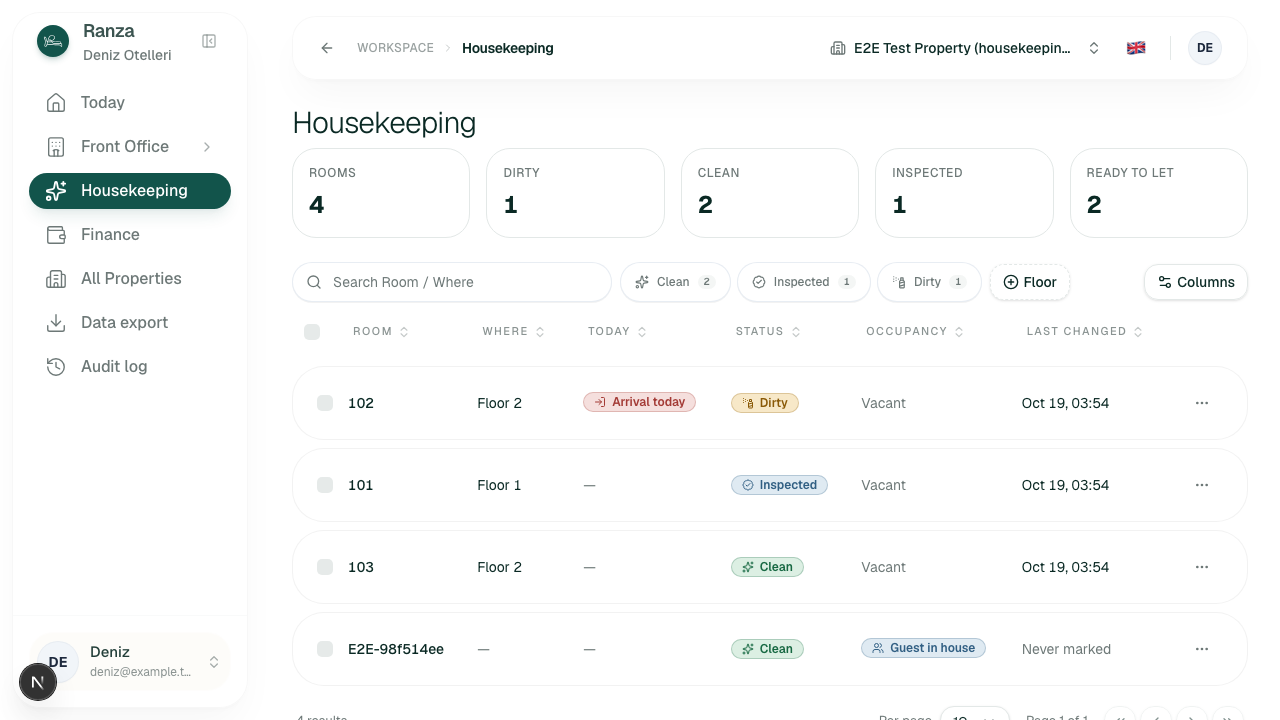
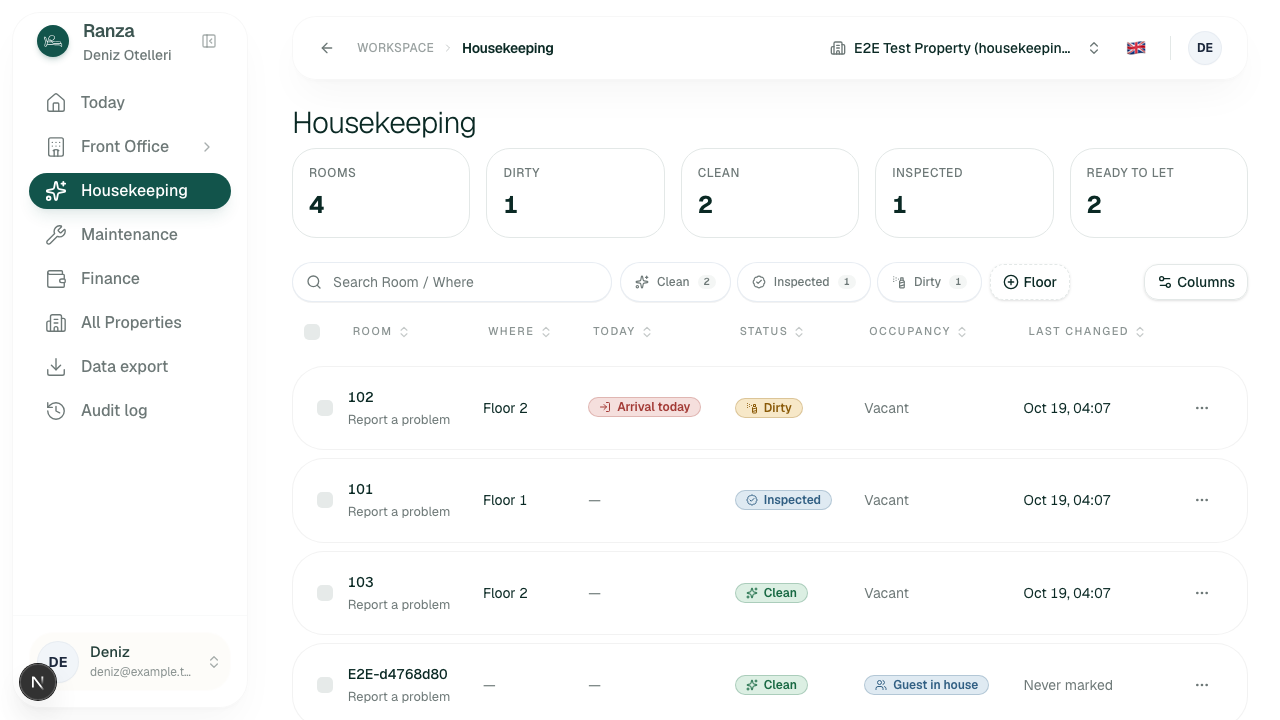
fix(housekeeping): a room's row says its status under its number on a phone and offers Report a problem with the room already chosen

diff --git a/apps/operator-workspace/src/features/housekeeping/components/columns.tsx b/apps/operator-workspace/src/features/housekeeping/components/columns.tsx
@@ -1,5 +1,6 @@
 "use client";
 
+import Link from "next/link";
 import { useTranslations } from "next-intl";
 import type { ColumnDef } from "@tanstack/react-table";
 import {
@@ -89,12 +90,26 @@ function changedAt(iso: string, locale: SupportedLocale, timeZone: string) {
   });
 }
 
+function DayBadge({ day }: { day: RoomDay | undefined }) {
+  const t = useTranslations("housekeeping");
+  if (!day) return null;
+  const look = DAY_LOOK[day];
+  return (
+    <StatusBadge
+      icon={look.icon}
+      label={t(look.label as "priorityArrival")}
+      tone={look.tone}
+    />
+  );
+}
+
 export function useHousekeepingColumns({
   locale,
   timeZone,
   days,
   mayMark,
   pending,
+  reportHref,
   onMark,
 }: {
   locale: SupportedLocale;
@@ -103,6 +118,8 @@ export function useHousekeepingColumns({
   days: Readonly<Record<string, RoomDay>>;
   mayMark: boolean;
   pending: boolean;
+  /** Where to report a problem in a room, up to its id; null if not allowed. */
+  reportHref: string | null;
   onMark: (unitIds: string[], status: HousekeepingStatus) => void;
 }): ColumnDef<HousekeepingRoom>[] {
   const t = useTranslations("housekeeping");
@@ -127,6 +144,21 @@ export function useHousekeepingColumns({
               {t("beds", { count: row.original.bedCount })}
             </span>
           ) : null}
+          {reportHref ? (
+            <Link
+              className="mt-1 block text-step--1 text-muted-foreground underline-offset-4 hover:text-foreground hover:underline"
+              href={`${reportHref}${row.original.unitId}`}
+              prefetch={false}
+            >
+              {t("reportProblem")}
+            </Link>
+          ) : null}
+          {/* On a phone the status column is a swipe away, and the status is
+              what this screen is for: it is said under the room as well. */}
+          <div className="mt-1.5 flex flex-wrap items-center gap-1.5 md:hidden">
+            <HousekeepingStatusBadge status={row.original.status} />
+            <DayBadge day={days[row.original.unitId]} />
+          </div>
         </div>
       ),
     },
@@ -177,18 +209,12 @@ export function useHousekeepingColumns({
           title={t("todayColumn")}
         />
       ),
-      cell: ({ row }) => {
-        const day = days[row.original.unitId];
-        if (!day) return <span className="text-muted-foreground">—</span>;
-        const look = DAY_LOOK[day];
-        return (
-          <StatusBadge
-            icon={look.icon}
-            label={t(look.label as "priorityArrival")}
-            tone={look.tone}
-          />
-        );
-      },
+      cell: ({ row }) =>
+        days[row.original.unitId] ? (
+          <DayBadge day={days[row.original.unitId]} />
+        ) : (
+          <span className="text-muted-foreground">—</span>
+        ),
     },
     {
       accessorKey: "status",

diff --git a/tests/unit/housekeeping-board.test.tsx b/tests/unit/housekeeping-board.test.tsx
@@ -63,6 +63,7 @@ function screenOf(
   board: Board,
   locale: SupportedLocale,
   days: Record<string, RoomDay> = {},
+  reportHref: string | null = null,
 ) {
   return (
     <NextIntlClientProvider locale={locale} messages={messages[locale]}>
@@ -74,6 +75,7 @@ function screenOf(
         markLimit={60}
         narrowed={null}
         propertyName="Deniz Otel"
+        reportHref={reportHref}
         timeZone="Europe/Istanbul"
       />
     </NextIntlClientProvider>
@@ -86,9 +88,10 @@ function show(
   board: Board,
   locale: SupportedLocale = "en",
   days: Record<string, RoomDay> = {},
+  reportHref: string | null = null,
 ) {
   cleanup();
-  rerenderScreen = render(screenOf(board, locale, days)).rerender;
+  rerenderScreen = render(screenOf(board, locale, days, reportHref)).rerender;
 }
 
 /** The same mounted board, handed new props — what a revalidation does. */
@@ -388,5 +391,20 @@ describe("the housekeeping board", () => {
       "Never marked",
     );
     expect(screen.getByRole("row", { name: /102/ })).toHaveTextContent("2019");
+  });
+
+  it("offers a report-a-problem link on the room's row to somebody who may report (MAINT-10)", () => {
+    show(boardOf([room({})], false), "en", {}, "/en/maintenance?report=");
+    expect(
+      screen.getByRole("link", { name: "Report a problem" }),
+    ).toHaveAttribute(
+      "href",
+      "/en/maintenance?report=dd000004-0000-4000-8000-000000000001",
+    );
+
+    show(boardOf([room({})], true));
+    expect(
+      screen.queryByRole("link", { name: "Report a problem" }),
+    ).not.toBeInTheDocument();
   });
 });

diff --git a/tests/browser/housekeeping-ux.spec.ts b/tests/browser/housekeeping-ux.spec.ts
@@ -87,6 +87,12 @@ test("a phone says a mark landed where it can be seen, and the stale-link page p
   await expect(first).toBeVisible();
   expect((await first.boundingBox())!.y).toBeLessThan(812);
 
+  // HK-01: the status is read without swiping the table sideways.
+  const status = first.getByText("Dirty").first();
+  await expect(status).toBeVisible();
+  const statusBox = (await status.boundingBox())!;
+  expect(statusBox.x + statusBox.width).toBeLessThanOrEqual(375);
+
   // HK-08: tick, mark, and the confirmation is in the window.
   await page.getByRole("checkbox", { name: "Select row" }).first().click();
   const markClean = page.getByRole("button", { name: "Mark clean" });
@@ -101,6 +107,14 @@ test("a phone says a mark landed where it can be seen, and the stale-link page p
   await page.screenshot({
     path: path.join(EVIDENCE, "confirmation-in-the-window-on-a-phone.png"),
   });
+
+  // MAINT-10: a problem is reported from the row, with the room already chosen.
+  await page
+    .getByRole("row", { name: /101/ })
+    .getByRole("link", { name: "Report a problem" })
+    .click();
+  await expect(page).toHaveURL(/\/en\/maintenance\?property=.*&report=/);
+  await expect(page.getByRole("dialog")).toContainText("101");
 
   // HK-12: a link naming a Property the viewer does not reach says what to do.
   await page.goto(

diff --git a/apps/operator-workspace/src/app/[locale]/(workspace)/housekeeping/page.tsx b/apps/operator-workspace/src/app/[locale]/(workspace)/housekeeping/page.tsx
@@ -13,6 +13,7 @@ import {
   housekeepingInspection,
   MARK_BATCH,
   requireViewer,
+  roomsMaintenance,
 } from "../../../../server/viewer";
 import { frontDeskProperty } from "../../../../server/front-desk";
 import { boardByUrgency } from "../../../../server/housekeeping-day";
@@ -73,14 +74,14 @@ export default async function HousekeepingPage({
     );
   }
 
-  const [fullBoard, inspection, arrivalRows, departureRows] = await Promise.all(
-    [
+  const [fullBoard, inspection, arrivalRows, departureRows, maintenance] =
+    await Promise.all([
       housekeepingBoard(property.propertyId),
       housekeepingInspection(property.propertyId),
       arrivals(property.propertyId),
       departures(property.propertyId, "due"),
-    ],
-  );
+      roomsMaintenance(property.propertyId),
+    ]);
   const { rooms: roomsByUrgency, days } = boardByUrgency(
     fullBoard,
     arrivalRows,
@@ -132,6 +133,11 @@ export default async function HousekeepingPage({
         narrowed={narrowed}
         locale={locale}
         markLimit={MARK_BATCH.max}
+        reportHref={
+          maintenance.mayReport
+            ? `${localizeHref(locale, "maintenance")}?property=${property.propertyId}&report=`
+            : null
+        }
         propertyName={property.propertyName}
         timeZone={property.timezone}
       />

diff --git a/apps/operator-workspace/src/messages.ts b/apps/operator-workspace/src/messages.ts
@@ -1804,6 +1804,7 @@ export interface Messages {
     floorFilter: string;
     noFloor: string;
     neverMarked: string;
+    reportProblem: string;
   };
 
   /** The Maintenance screen (RANZ-33). */
@@ -4721,6 +4722,7 @@ export const messages: Record<SupportedLocale, Messages> = {
       floorFilter: "Kat",
       noFloor: "Katsız",
       neverMarked: "Hiç işaretlenmedi",
+      reportProblem: "Sorun bildir",
     },
     maintenance: {
       heading:
@@ -7742,6 +7744,7 @@ export const messages: Record<SupportedLocale, Messages> = {
       floorFilter: "Floor",
       noFloor: "No floor",
       neverMarked: "Never marked",
+      reportProblem: "Report a problem",
     },
     maintenance: {
       heading:
@@ -10710,6 +10713,7 @@ export const messages: Record<SupportedLocale, Messages> = {
       floorFilter: "الطابق",
       noFloor: "بلا طابق",
       neverMarked: "لم تُعلَّم بعد",
+      reportProblem: "الإبلاغ عن مشكلة",
     },
     maintenance: {
       heading:

diff --git a/apps/operator-workspace/src/features/housekeeping/components/housekeeping-board.tsx b/apps/operator-workspace/src/features/housekeeping/components/housekeeping-board.tsx
@@ -56,6 +56,7 @@ export function HousekeepingBoard({
   markLimit,
   narrowed,
   propertyName,
+  reportHref,
   timeZone,
 }: {
   /** The board unnarrowed, for the way back from a figure on Today. */
@@ -78,6 +79,11 @@ export function HousekeepingBoard({
   /** The most rooms one mark may name; the module refuses more. */
   markLimit: number;
   propertyName: string;
+  /**
+   * The Maintenance report form up to the room's id, for somebody who may
+   * report; a string because a function cannot cross to the browser.
+   */
+  reportHref: string | null;
   timeZone: string;
 }) {
   const t = useTranslations("housekeeping");
@@ -109,6 +115,7 @@ export function HousekeepingBoard({
     days,
     mayMark: board.mayMark,
     pending,
+    reportHref,
     onMark: mark,
   });
 

diff --git a/tests/browser/ux-rooms.ts b/tests/browser/ux-rooms.ts
@@ -22,7 +22,13 @@ export function aPropertyWithRooms(
   rooms: readonly RoomSpec[],
 ): { propertyId: string; name: string } {
   const property = aFreshProperty(label, {
-    capabilities: ["today", "front_desk", "finance", "housekeeping"],
+    capabilities: [
+      "today",
+      "front_desk",
+      "finance",
+      "housekeeping",
+      "maintenance",
+    ],
   });
   psql(
     `insert into public.property_assignments

diff --git a/docs/roadmap.md b/docs/roadmap.md
@@ -111,9 +111,9 @@ a specification.
 
 | Bullet                                                            |             | Evidence, or what is missing                                                                                                                                                                                                                                                                                                                                                                                                                                                                                                                                                                                                                                                                                                                                                                                                                                                                                                                                                                                                                                                                                                                                                                                                                                                                                                                                                                                                                                                                                                                                                                                                                                                                                                                                                                                                                                                                                                                                                                                                                                                                                                                                                                                                                                                                                                                                                                                                                                                                                                                                                                                                                                                                                                                                                                                                                                                                                                                                                                                                                                                                                                                                                                                                                                                                                                                                                                                                                                                |
 | ----------------------------------------------------------------- | ----------- | --------------------------------------------------------------------------------------------------------------------------------------------------------------------------------------------------------------------------------------------------------------------------------------------------------------------------------------------------------------------------------------------------------------------------------------------------------------------------------------------------------------------------------------------------------------------------------------------------------------------------------------------------------------------------------------------------------------------------------------------------------------------------------------------------------------------------------------------------------------------------------------------------------------------------------------------------------------------------------------------------------------------------------------------------------------------------------------------------------------------------------------------------------------------------------------------------------------------------------------------------------------------------------------------------------------------------------------------------------------------------------------------------------------------------------------------------------------------------------------------------------------------------------------------------------------------------------------------------------------------------------------------------------------------------------------------------------------------------------------------------------------------------------------------------------------------------------------------------------------------------------------------------------------------------------------------------------------------------------------------------------------------------------------------------------------------------------------------------------------------------------------------------------------------------------------------------------------------------------------------------------------------------------------------------------------------------------------------------------------------------------------------------------------------------------------------------------------------------------------------------------------------------------------------------------------------------------------------------------------------------------------------------------------------------------------------------------------------------------------------------------------------------------------------------------------------------------------------------------------------------------------------------------------------------------------------------------------------------------------------------------------------------------------------------------------------------------------------------------------------------------------------------------------------------------------------------------------------------------------------------------------------------------------------------------------------------------------------------------------------------------------------------------------------------------------------------------------------------- |
-| Property structure and Accommodation Units                        | **done**    | `20260916000400_accommodation_units`, `20260916002100_a_bed_is_a_unit_under_a_room`, `20260916002900_a_unit_is_added_and_blocked_from_the_workspace`, `packages/ranza/accommodation`, [ADR 0025](adr/0025-a-bed-is-a-unit-under-a-room.md). A bed is a Unit under a room, a Unit is sellable when it has no children, and building and floor are columns. The rooms screen adds rooms and beds in bulk and blocks a Unit with a reason, under `accommodation.configure`. `tests/database/unit_hierarchy.test.sql`, `tests/database/rooms_and_beds.test.sql`. `tests/browser/rooms-and-beds.spec.ts` walks it on the screens: rooms added in bulk, two beds of one room booked to two Guests for the same nights, the third blocked with a reason, and the booking form no longer offering it The UX audit's RANZ-62 pass offers Add rooms only to whoever holds `accommodation.configure`, previews the batch before the press (`RB-S2-16` to `RB-S2-18`), words every refusal in the screen's own language, and lets the map and list be searched and filtered (`RB-S1-10` to `RB-S1-12`; `tests/browser/rooms-ux.spec.ts`) |
+| Property structure and Accommodation Units                        | **done**    | `20260916000400_accommodation_units`, `20260916002100_a_bed_is_a_unit_under_a_room`, `20260916002900_a_unit_is_added_and_blocked_from_the_workspace`, `packages/ranza/accommodation`, [ADR 0025](adr/0025-a-bed-is-a-unit-under-a-room.md). A bed is a Unit under a room, a Unit is sellable when it has no children, and building and floor are columns. The rooms screen adds rooms and beds in bulk and blocks a Unit with a reason, under `accommodation.configure`. `tests/database/unit_hierarchy.test.sql`, `tests/database/rooms_and_beds.test.sql`. `tests/browser/rooms-and-beds.spec.ts` walks it on the screens: rooms added in bulk, two beds of one room booked to two Guests for the same nights, the third blocked with a reason, and the booking form no longer offering it The UX audit's RANZ-62 pass offers Add rooms only to whoever holds `accommodation.configure`, previews the batch before the press (`RB-S2-16` to `RB-S2-18`), words every refusal in the screen's own language, and lets the map and list be searched and filtered (`RB-S1-10` to `RB-S1-12`; `tests/browser/rooms-ux.spec.ts`)                                                                                                                                                                                                                                                                                                                                                                                                                                                                                                                                                                                                                                                                                                                                                                                                                                                                                                                                                                                                                                                                                                                                                                                                                                                                                                                                                                                                                                                                                                                                                                                                                                                                                                                                                                                                                                                                                                                                                                                                                                                                                                                                                                                                                                                                                                                                                |
 | Reservations, availability, Stays, check-in, check-out, transfers | **partial** | All but quotes, group bookings and deposits, which are deferred on purpose (RG-DEF-04). **Taking a booking is a command** — `createReservation`, a Guest and a Reservation in one transaction, with `reservations_no_double_booking` refusing a second confirmed Reservation over one Unit's nights, and `front-office/reservations` as the screen. A mistaken check-in can be withdrawn from the arrivals screen ([ADR 0022](adr/0022-a-mistaken-check-in-is-reversed-not-deleted.md)) until money is posted against it or its business day is closed ([ADR 0034](adr/0034-a-business-day-closes-after-its-cutoff.md)) — a row action, a reason, and the Reservation is arrivable again with the empty Folio closed behind it. `pnpm test:browser` presses the button. `packages/ranza/reservations`, migrations `…000900`–`…001100`, `…001300`, `…001500`, `…001800`–`…002000`, [ADR 0012](adr/0012-a-write-is-bounded-by-a-policy-not-a-check.md), [ADR 0024](adr/0024-a-guest-belongs-to-an-organization-and-a-reservation-holds-its-nights.md). Availability is decided by an exclusion constraint; the booking form also reads it, to mark the Units taken for the nights chosen, and that read never decides ([ADR 0024](adr/0024-a-guest-belongs-to-an-organization-and-a-reservation-holds-its-nights.md), amended 2026-09-30). **Moving is built, and only through commands**: a column-level grant still refuses a plain update of a booking's Unit or nights, so a change of room or dates cannot happen as a side effect. A booking can be cancelled with a reason or marked a no-show, and one that has not arrived can be moved to other nights or another Unit, an in-house Guest extended, shortened or moved to another room, each through a command that checks its caller ([ADR 0039](adr/0039-a-booking-is-amended-through-commands-that-check-their-caller.md), `docs/features/amend-booking`). One Guest is in one Unit whatever the dates say, and a Unit with somebody in it cannot be promised over their nights ([ADR 0033](adr/0033-an-in-house-stay-holds-its-unit-until-it-is-checked-out.md)). Check-out confirms the bill it reviewed, ends the Reservation with the Stay and closes a settled Folio; a balance still owing is settled by recording a payment on the Folio first, or left open with a reason ([ADR 0030](adr/0030-a-check-out-confirms-the-bill-it-reviewed.md)). A Guest booking carries the nightly price it was taken at, and a night in house is charged once, by the close or by the check-out; `tests/browser/close-the-day.spec.ts` closes a day with two Guests in house, finds two room nights on their Folios, and has a second desk refused ([ADR 0038](adr/0038-a-night-is-priced-by-its-unit-type-and-fixed-when-booked.md), migrations `…008000`–`…008200`, `tests/database/room_nights.test.sql`). **The front desk's own screens answer plainly** (UX audit 2026-10-11, RANZ-51/54/58/60/61/63, rows RG-S4-20, FD-S8-01…FD-S8-05, CD-S4-01…CD-S4-06, all proposed): a Guest still in the room past their departure stays on Reservations, its In house tab and Departures, labelled Overdue with the days; every refused check-in, check-out, change or cancellation names its reason; Departures says what a leaving Guest owes as the check-out dialog does; Close the day names the range and what holds each day and can carry one reason across a backlog the same items hold, still one close per day |
-| Housekeeping room-status lifecycle                                | **partial** | `20260916003000_a_check_out_makes_the_room_dirty`, `20260916003100_a_room_is_marked_from_the_workspace`, `packages/ranza/housekeeping`, `tests/database/housekeeping.test.sql`, [ADR 0029](adr/0029-housekeeping-status-is-a-room-s-own-row.md). A room is dirty, clean or inspected in a table of its own, beside `accommodation_units.status` rather than inside it. Check-out marks it dirty through `apps/worker`, the product's second outbox handler, and the desk marks it back from the board. `tests/browser/housekeeping.spec.ts` runs the real worker after a check-out through the screens and has a cleaner take the room to inspected. Whether a cleaned room is inspected before it is ready is an Organization default with a Property override (`20260916003200_check_rooms_after_cleaning`). The UX audit's RANZ-65 pass counts Ready to let by the one definition Today uses, opens the board on what to clean first with a Today column and a floor filter, and says a mark's result where a phone can see it (`HK-S1-26` to `HK-S1-32`, `HK-S3-12`; `tests/browser/housekeeping-ux.spec.ts`). Missing: daily cleaning of rooms still in use, and per-bed status in a shared room |
+| Housekeeping room-status lifecycle                                | **partial** | `20260916003000_a_check_out_makes_the_room_dirty`, `20260916003100_a_room_is_marked_from_the_workspace`, `packages/ranza/housekeeping`, `tests/database/housekeeping.test.sql`, [ADR 0029](adr/0029-housekeeping-status-is-a-room-s-own-row.md). A room is dirty, clean or inspected in a table of its own, beside `accommodation_units.status` rather than inside it. Check-out marks it dirty through `apps/worker`, the product's second outbox handler, and the desk marks it back from the board. `tests/browser/housekeeping.spec.ts` runs the real worker after a check-out through the screens and has a cleaner take the room to inspected. Whether a cleaned room is inspected before it is ready is an Organization default with a Property override (`20260916003200_check_rooms_after_cleaning`). The UX audit's RANZ-65 pass counts Ready to let by the one definition Today uses, opens the board on what to clean first with a Today column and a floor filter, and says a mark's result where a phone can see it (`HK-S1-26` to `HK-S1-32`, `HK-S3-12`; `tests/browser/housekeeping-ux.spec.ts`). Missing: daily cleaning of rooms still in use, and per-bed status in a shared room                                                                                                                                                                                                                                                                                                                                                                                                                                                                                                                                                                                                                                                                                                                                                                                                                                                                                                                                                                                                                                                                                                                                                                                                                                                                                                                                                                                                                                                                                                                                                                                                                                                                                                                                                                                                                                                                                                                                                                                                                                                                                                                                                                                                                                                                       |
 | Folio foundation                                                  | **done**    | `20260916001200_folios`, `20260916009800_recording_a_payment_on_a_folio`, `packages/ranza/folios`, [ADR 0015](adr/0015-money-is-an-integer-a-balance-is-a-sum-and-a-correction-is-a-line.md). A Folio, a line, a balance that is only ever their sum, a reversal, and closing — including the empty one a withdrawn check-in leaves behind. A room night is a dated, keyed line only the close and the check-out post ([ADR 0038](adr/0038-a-night-is-priced-by-its-unit-type-and-fixed-when-booked.md)). Payments with payment methods, negative minor units and exact reversals are built (`tests/database/folio_payments.test.sql`). Taxes, discounts, deposits, refunds and split folios are blueprint 5.9 and are not built                                                                                                                                                                                                                                                                                                                                                                                                                                                                                                                                                                                                                                                                                                                                                                                                                                                                                                                                                                                                                                                                                                                                                                                                                                                                                                                                                                                                                                                                                                                                                                                                                                                                                                                                                                                                                                                                                                                                                                                                                                                                                                                                                                                                                                                                                                                                                                                                                                                                                                                                                                                                                                                                                                                                            |
 | Guest and Resident profiles                                       | **partial** | `20260916002000_guests_and_reservation_creation`, `packages/ranza/guests`, [ADR 0024](adr/0024-a-guest-belongs-to-an-organization-and-a-reservation-holds-its-nights.md). A Guest is a record owned by an **Organization**, not a Property, so a history across two Stays is expressible — and a returning Guest is matched on an exact email, which is the narrowest rule that is never the automatic merge blueprint 18.7 forbids. Documents, guardians, emergency contacts, preferences, consent and retention state are all 18.7 and are not built; nothing edits a Guest either, which a column-level grant enforces rather than a convention                                                                                                                                                                                                                                                                                                                                                                                                                                                                                                                                                                                                                                                                                                                                                                                                                                                                                                                                                                                                                                                                                                                                                                                                                                                                                                                                                                                                                                                                                                                                                                                                                                                                                                                                                                                                                                                                                                                                                                                                                                                                                                                                                                                                                                                                                                                                                                                                                                                                                                                                                                                                                                                                                                                                                                                                                          |
 | Reservation timeline, command center, Guest 360                   | **partial** | The booking list — `front-office/reservations`, with the form that takes one — and arrivals, the first live screen — it polls through TanStack Query, scoped to the tenant ([ADR 0019](adr/0019-a-live-screen-uses-tanstack-query-scoped-to-the-tenant.md)). The room calendar is built — `front-office/room-calendar`: Units against 7, 14 or 30 days, bookings and Stays as bars, the named gap drawn as an overlap rather than hidden, nightly free counts and a side drawer ([`features/room-calendar/`](features/room-calendar/edge-cases.csv)). A bar is dragged to another Unit or day, or its end pulled, and the preview names every conflict the calendar already knows before the amend, departure and move commands of [ADR 0039](adr/0039-a-booking-is-amended-through-commands-that-check-their-caller.md) decide (`RC-S3-*`, proposed); it is filtered by Unit type and state. What blueprint 18.6 adds beyond it — an action cluster, saved views — is deferred there, row by row. **All Properties** is built, read-only — `portfolio`, in the rail wherever a viewer reaches several Properties of one Organization: one card per Property with its occupancy counts, arrivals and departures still to come, open maintenance and money owed, and a summary that never adds across currencies, read in one statement ([`features/portfolio/`](features/portfolio/edge-cases.csv)). Whether it is an Enterprise-plan feature, and a charged-this-month figure, are open rows there Each arrival carries the time its Guest expects, set when the booking is taken and changed through its own command, and the arrivals row says when the Property's clock has passed it ([`features/front-desk/`](features/front-desk/edge-cases.csv), FD-S6-*)                                                                                                                                                                                                                                                                                                                                                                                                                                                                                                                                                                                                                                                                                                                                                                                                                                                                                                                                                                                                                                                                                                                                                                                                                                                                                                                                                                                                                                                                                                                                                                                                                                                                                                           |
